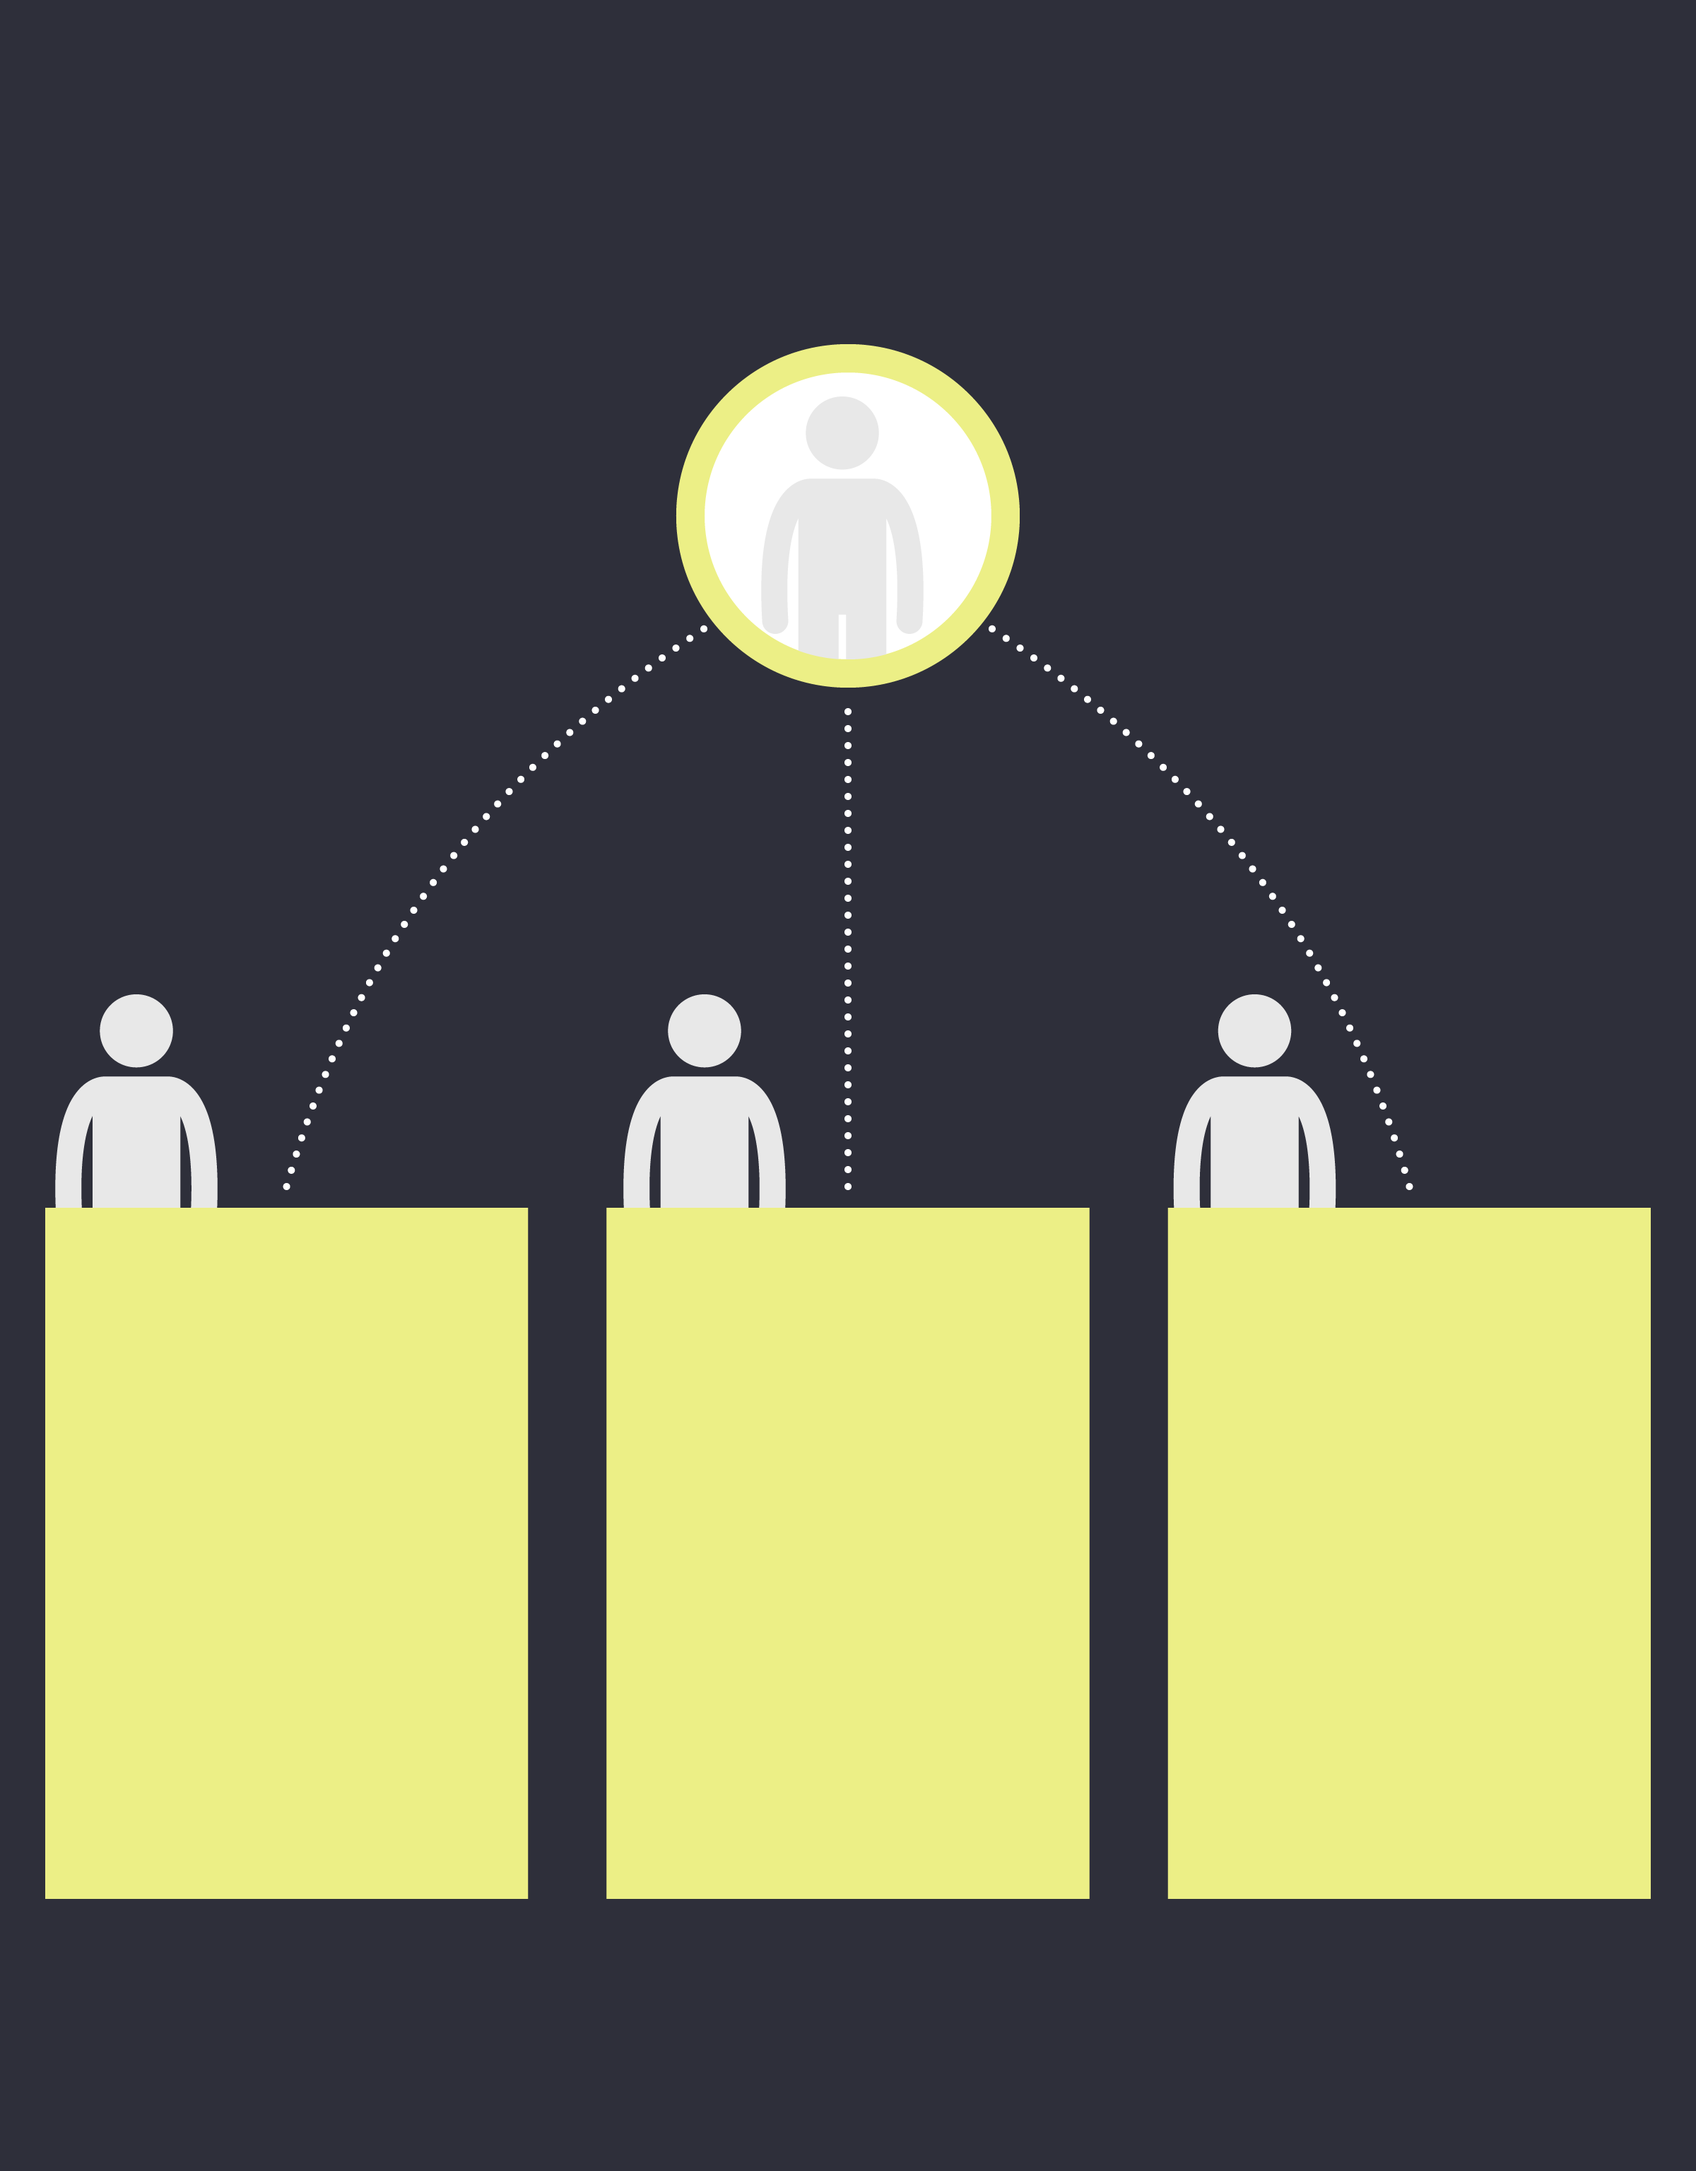
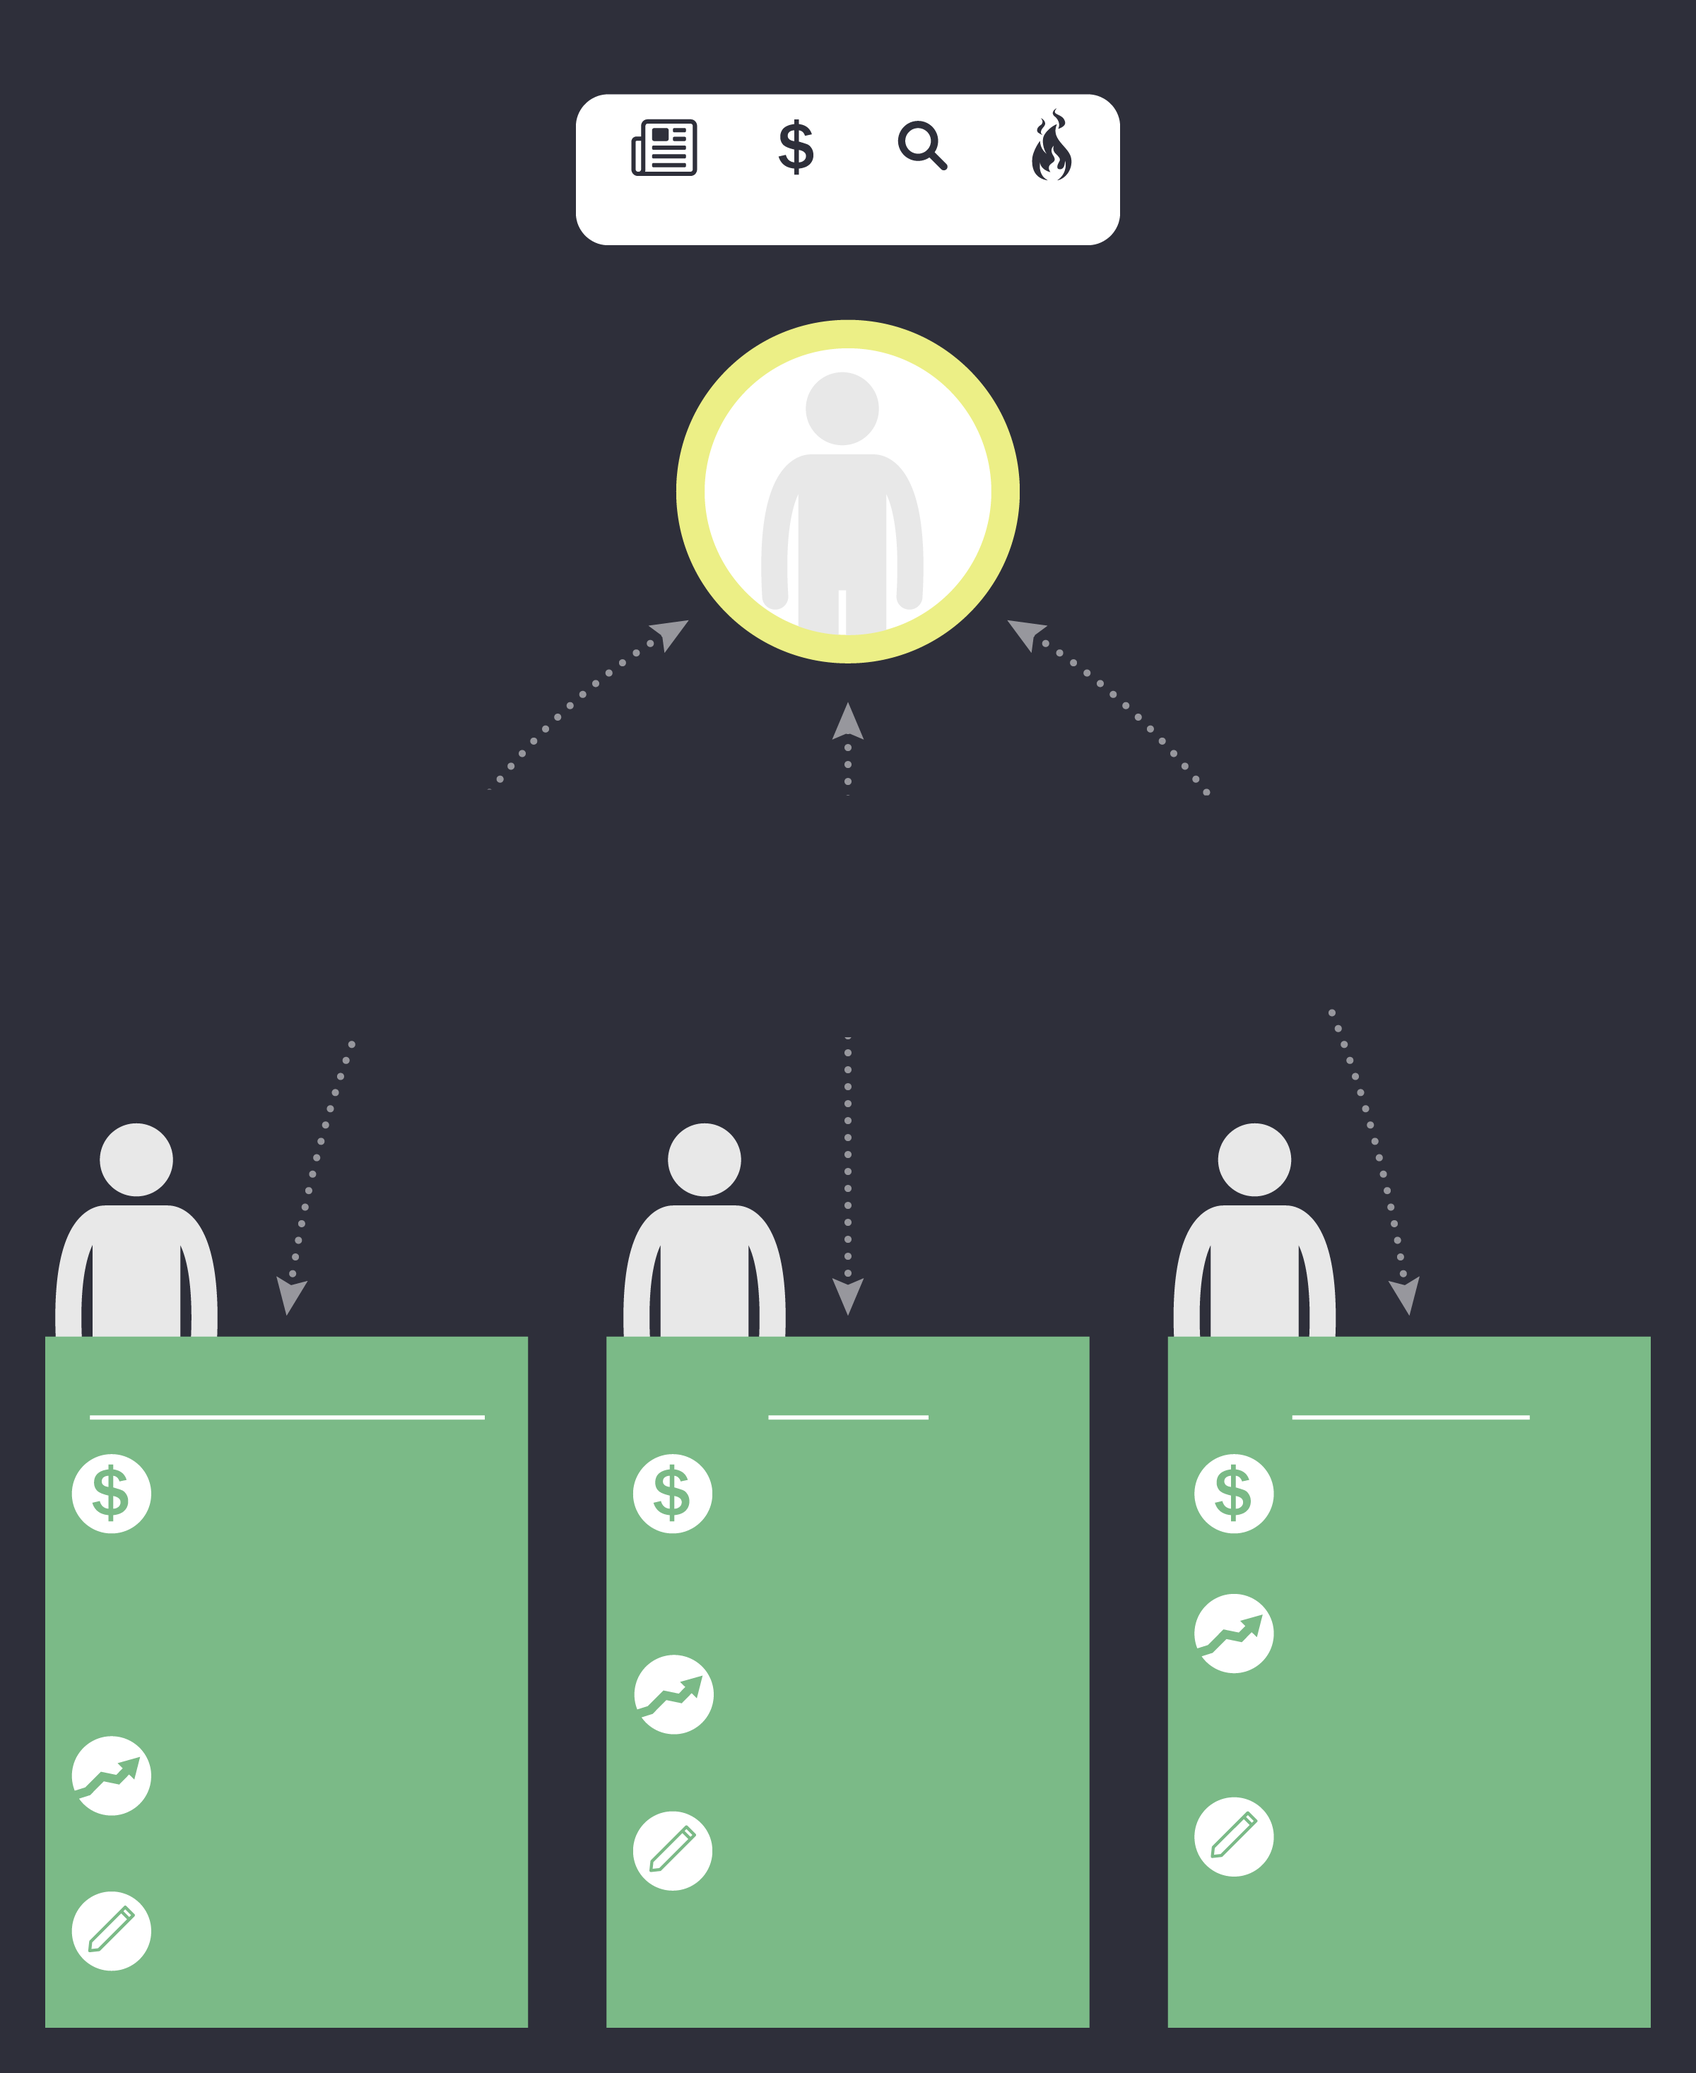
Newsroom graphic

diff --git a/_includes/graphic-newsroom.html b/_includes/graphic-newsroom.html
@@ -1,4 +1,4 @@
-<!-- Generated by ai2html v0.65.4 - 2017-09-13 15:01 -->
+<!-- Generated by ai2html v0.65.4 - 2017-09-13 17:01 -->
 <!-- ai file: ON_graphic_newsroom.ai -->
 <style type='text/css' media='screen,print'>
 	#g-ON_graphic_newsroom-box .g-artboard {
@@ -18,7 +18,6 @@
 	#g-ON_graphic_newsroom-Artboard_1 {
 		position:relative;
 		overflow:hidden;
-		width:1200px;
 	}
 	#g-ON_graphic_newsroom-Artboard_1 p {
 		font-weight:500;
@@ -27,65 +26,133 @@
 		filter:alpha(opacity=100);
 		-ms-filter:progid:DXImageTransform.Microsoft.Alpha(Opacity=100);
 		opacity:1;
+		padding-bottom:0;
 		letter-spacing:0em;
 		text-align:left;
 		color:rgb(255,255,255);
 		text-transform:none;
-		padding-bottom:0;
 		padding-top:0;
 		mix-blend-mode:normal;
 		font-style:normal;
 	}
 	#g-ON_graphic_newsroom-Artboard_1 .g-pstyle0 {
-		font-size:53px;
-		line-height:64px;
+		font-size:16px;
+		line-height:19px;
+		filter:alpha(opacity=50);
+		-ms-filter:progid:DXImageTransform.Microsoft.Alpha(Opacity=50);
+		opacity:0.5;
+		letter-spacing:0.1em;
 		text-align:center;
 		text-transform:uppercase;
 	}
 	#g-ON_graphic_newsroom-Artboard_1 .g-pstyle1 {
+		font-size:17px;
+		line-height:15px;
+		letter-spacing:0.025em;
+		text-align:center;
+		color:rgb(46,47,58);
+	}
+	#g-ON_graphic_newsroom-Artboard_1 .g-pstyle2 {
 		font-size:30px;
 		line-height:35px;
+		text-align:center;
 		text-transform:uppercase;
-		color:rgb(0,0,0);
+	}
+	#g-ON_graphic_newsroom-Artboard_1 .g-pstyle3 {
+		text-align:center;
+	}
+	#g-ON_graphic_newsroom-Artboard_1 .g-pstyle4 {
+		font-size:26px;
+		line-height:31px;
+		text-align:center;
+		text-transform:uppercase;
+	}
+	#g-ON_graphic_newsroom-Artboard_1 .g-pstyle5 {
+		padding-bottom:10px;
 	}
 
 </style>
 
-<div id="g-ON_graphic_newsroom-box" class="ai2html fullWidth">
+<div id="g-ON_graphic_newsroom-box" class="fullWidth ai2html">
 
 	<!-- Artboard: Artboard_1 -->
 	<div id="g-ON_graphic_newsroom-Artboard_1" class="g-artboard g-artboard-v3" data-min-width='1200'>
 		<img id="g-ai0-0" class="g-aiImg" src="{{ site.baseurl }}/assets/img/ON_graphic_newsroom-Artboard_1.png"/>
-		<div id="g-ai0-1" class="g-Layer_2 g-aiAbs g-aiPointText" style="top:9.1065%;margin-top:-67.9px;left:49.9932%;margin-left:-11.625%;width:281px;">
-			<p class="g-pstyle0">Something</p>
-			<p class="g-pstyle0">great</p>
+		<div id="g-ai0-1" class="g-Text g-aiAbs g-aiPointText" style="top:3.1947%;margin-top:-10.9px;left:50.0636%;margin-left:-12.1667%;width:294px;">
+			<p class="g-pstyle0">Drivers of Editorial Decisions:</p>
 		</div>
-		<div id="g-ai0-2" class="g-Layer_2 g-aiAbs" style="top:28.1205%;left:6.95%;width:22.25%;">
-			<p>Lorem ipsum dolor sit amet, consectetur adipisicing elit, sed do eiusmod tempor incididunt ut labore et dolore magna aliqua. Ut enim ad minim veniam, quis nostrud exercitation ullamco laboris.</p>
+		<div id="g-ai0-2" class="g-Text g-aiAbs g-aiPointText" style="top:10.0681%;margin-top:-16.7px;left:54.4871%;margin-left:-2.4583%;width:61px;">
+			<p class="g-pstyle1">Private</p>
+			<p class="g-pstyle1">Interest</p>
 		</div>
-		<div id="g-ai0-3" class="g-Layer_2 g-aiAbs" style="top:28.1205%;left:73.9786%;width:22.25%;">
-			<p>Lorem ipsum dolor sit amet, consectetur adipisicing elit, sed do eiusmod tempor incididunt ut labore et dolore magna aliqua. Ut enim ad minim veniam, quis nostrud exercitation ullamco laboris.</p>
+		<div id="g-ai0-3" class="g-Text g-aiAbs g-aiPointText" style="top:9.9543%;margin-top:-9.1px;left:39.4245%;margin-left:-3.875%;width:95px;">
+			<p class="g-pstyle1">Competition</p>
 		</div>
-		<div id="g-ai0-4" class="g-Layer_2 g-aiAbs g-aiPointText" style="top:58.4123%;margin-top:-19.4px;left:4.0833%;width:120px;">
-			<p class="g-pstyle1">Heading</p>
+		<div id="g-ai0-4" class="g-Text g-aiAbs g-aiPointText" style="top:9.9543%;margin-top:-9.1px;left:46.9647%;margin-left:-1.1667%;width:30px;">
+			<p class="g-pstyle1">Ads</p>
 		</div>
-		<div id="g-ai0-5" class="g-Layer_2 g-aiAbs g-aiPointText" style="top:58.4123%;margin-top:-19.4px;left:37.25%;width:120px;">
-			<p class="g-pstyle1">Heading</p>
+		<div id="g-ai0-5" class="g-Text g-aiAbs g-aiPointText" style="top:9.9543%;margin-top:-9.1px;left:62.0291%;margin-left:-1.5%;width:38px;">
+			<p class="g-pstyle1">Buzz</p>
 		</div>
-		<div id="g-ai0-6" class="g-Layer_2 g-aiAbs g-aiPointText" style="top:58.4123%;margin-top:-19.4px;left:70.4167%;width:120px;">
-			<p class="g-pstyle1">Heading</p>
+		<div id="g-ai0-6" class="g-Text g-aiAbs g-aiPointText" style="top:13.7915%;margin-top:-19.4px;left:50.0004%;margin-left:-3.9583%;width:97px;">
+			<p class="g-pstyle2">editor</p>
 		</div>
-		<div id="g-ai0-7" class="g-Layer_2 g-aiAbs g-aiPointText" style="top:72.4074%;margin-top:-19.4px;left:4.0833%;width:120px;">
-			<p class="g-pstyle1">Heading</p>
+		<div id="g-ai0-7" class="g-Text g-aiAbs g-aiPointText" style="top:39.1805%;margin-top:-10.9px;left:24.5235%;margin-left:-5.1667%;width:126px;">
+			<p class="g-pstyle0">relationship:</p>
 		</div>
-		<div id="g-ai0-8" class="g-Layer_2 g-aiAbs g-aiPointText" style="top:72.4074%;margin-top:-19.4px;left:37.25%;width:120px;">
-			<p class="g-pstyle1">Heading</p>
+		<div id="g-ai0-8" class="g-Text g-aiAbs g-aiPointText" style="top:39.1805%;margin-top:-10.9px;left:50.058%;margin-left:-5.1667%;width:126px;">
+			<p class="g-pstyle0">relationship:</p>
 		</div>
-		<div id="g-ai0-9" class="g-Layer_2 g-aiAbs g-aiPointText" style="top:72.4074%;margin-top:-19.4px;left:70.4167%;width:120px;">
-			<p class="g-pstyle1">Heading</p>
+		<div id="g-ai0-9" class="g-Text g-aiAbs g-aiPointText" style="top:39.8621%;margin-top:-10.9px;left:74.9031%;margin-left:-5.1667%;width:126px;">
+			<p class="g-pstyle0">relationship:</p>
+		</div>
+		<div id="g-ai0-10" class="g-Text g-aiAbs" style="top:39.9388%;left:24.446%;margin-left:-11.625%;width:23.25%;">
+			<p class="g-pstyle3">Correspondents have largely transactional relationships with editors&mdash;submitting stories from local context via email and receiving little feedback on why or why not a particular story is chosen.</p>
+		</div>
+		<div id="g-ai0-11" class="g-Text g-aiAbs" style="top:39.9388%;left:50.0721%;margin-left:-9.9167%;width:19.8333%;">
+			<p class="g-pstyle3">As editorial pressures increasingly encroach on the newsroom, editors have less time and fewer incentives to foster personal one-on-one coaching to staffers.</p>
+		</div>
+		<div id="g-ai0-12" class="g-Text g-aiAbs" style="top:40.484%;left:74.9172%;margin-left:-9.9167%;width:19.8333%;">
+			<p class="g-pstyle3">Freelancers have develop pre-existing personal relationships with multiple editors to ensure their stories are seen and published. </p>
+		</div>
+		<div id="g-ai0-13" class="g-Text g-aiAbs g-aiPointText" style="top:67.225%;margin-top:-19.4px;left:50.0203%;margin-left:-4.6667%;width:114px;">
+			<p class="g-pstyle2">Staffer</p>
+		</div>
+		<div id="g-ai0-14" class="g-Text g-aiAbs g-aiPointText" style="top:67.225%;margin-top:-19.4px;left:83.0806%;margin-left:-7.0417%;width:171px;">
+			<p class="g-pstyle2">Freelancer</p>
+		</div>
+		<div id="g-ai0-15" class="g-Text g-aiAbs g-aiPointText" style="top:67.2098%;margin-top:-17.1px;left:16.8879%;margin-left:-11.625%;width:281px;">
+			<p class="g-pstyle4">Local Correspondent</p>
+		</div>
+		<div id="g-ai0-16" class="g-Text g-aiAbs" style="top:70.2678%;left:42.9444%;width:19.75%;">
+			<p class="g-pstyle5">&bull; Contracted by one media house and is paid a yearly salary for work.</p>
+			<p class="g-pstyle5">&bull; Usually a non-compete clause.</p>
+		</div>
+		<div id="g-ai0-17" class="g-Text g-aiAbs" style="top:70.2678%;left:9.8552%;width:19.75%;">
+			<p class="g-pstyle5">&bull; Contracted by one media house and is paid per stories, with a two story guarantee per day. </p>
+			<p class="g-pstyle5">&bull; Allowed to pitch more than two stories with the possibility of earning more for each published story</p>
+		</div>
+		<div id="g-ai0-18" class="g-Text g-aiAbs" style="top:70.2678%;left:76.0453%;width:19.75%;">
+			<p class="g-pstyle5">&bull; Pitches to multiple media outlets (between traditional, digital, international media)</p>
+		</div>
+		<div id="g-ai0-19" class="g-Text g-aiAbs" style="top:77.0833%;left:76.0453%;width:19.75%;">
+			<p class="g-pstyle5">&bull; Deepen expertise in one specific subject area.</p>
+			<p class="g-pstyle5">&bull; Partnerships for recurring writing with traditional media or specialty, or csos</p>
+		</div>
+		<div id="g-ai0-20" class="g-Text g-aiAbs" style="top:80.3547%;left:42.9444%;width:19.75%;">
+			<p class="g-pstyle5">&bull; Self-censorship, light reporting move along unnoticed.</p>
+		</div>
+		<div id="g-ai0-21" class="g-Text g-aiAbs" style="top:84.1032%;left:9.8552%;width:19.75%;">
+			<p class="g-pstyle5">&bull; Held hostage by time deadlines and cannot put time towards longer more show-off stories stories</p>
+		</div>
+		<div id="g-ai0-22" class="g-Text g-aiAbs" style="top:86.8294%;left:76.0453%;width:19.75%;">
+			<p class="g-pstyle5">&bull; Able to pick topics of interest. Time to research and report; but living a hustle lifestyle.</p>
+		</div>
+		<div id="g-ai0-23" class="g-Text g-aiAbs" style="top:91.2595%;left:9.8552%;width:19.75%;">
+			<p class="g-pstyle5">&bull; Tight daily deadlines with little time to put towards longer features.</p>
 		</div>
 	</div>
 
 </div>
 
-<!-- End ai2html - 2017-09-13 15:01 -->
+<!-- End ai2html - 2017-09-13 17:01 -->
